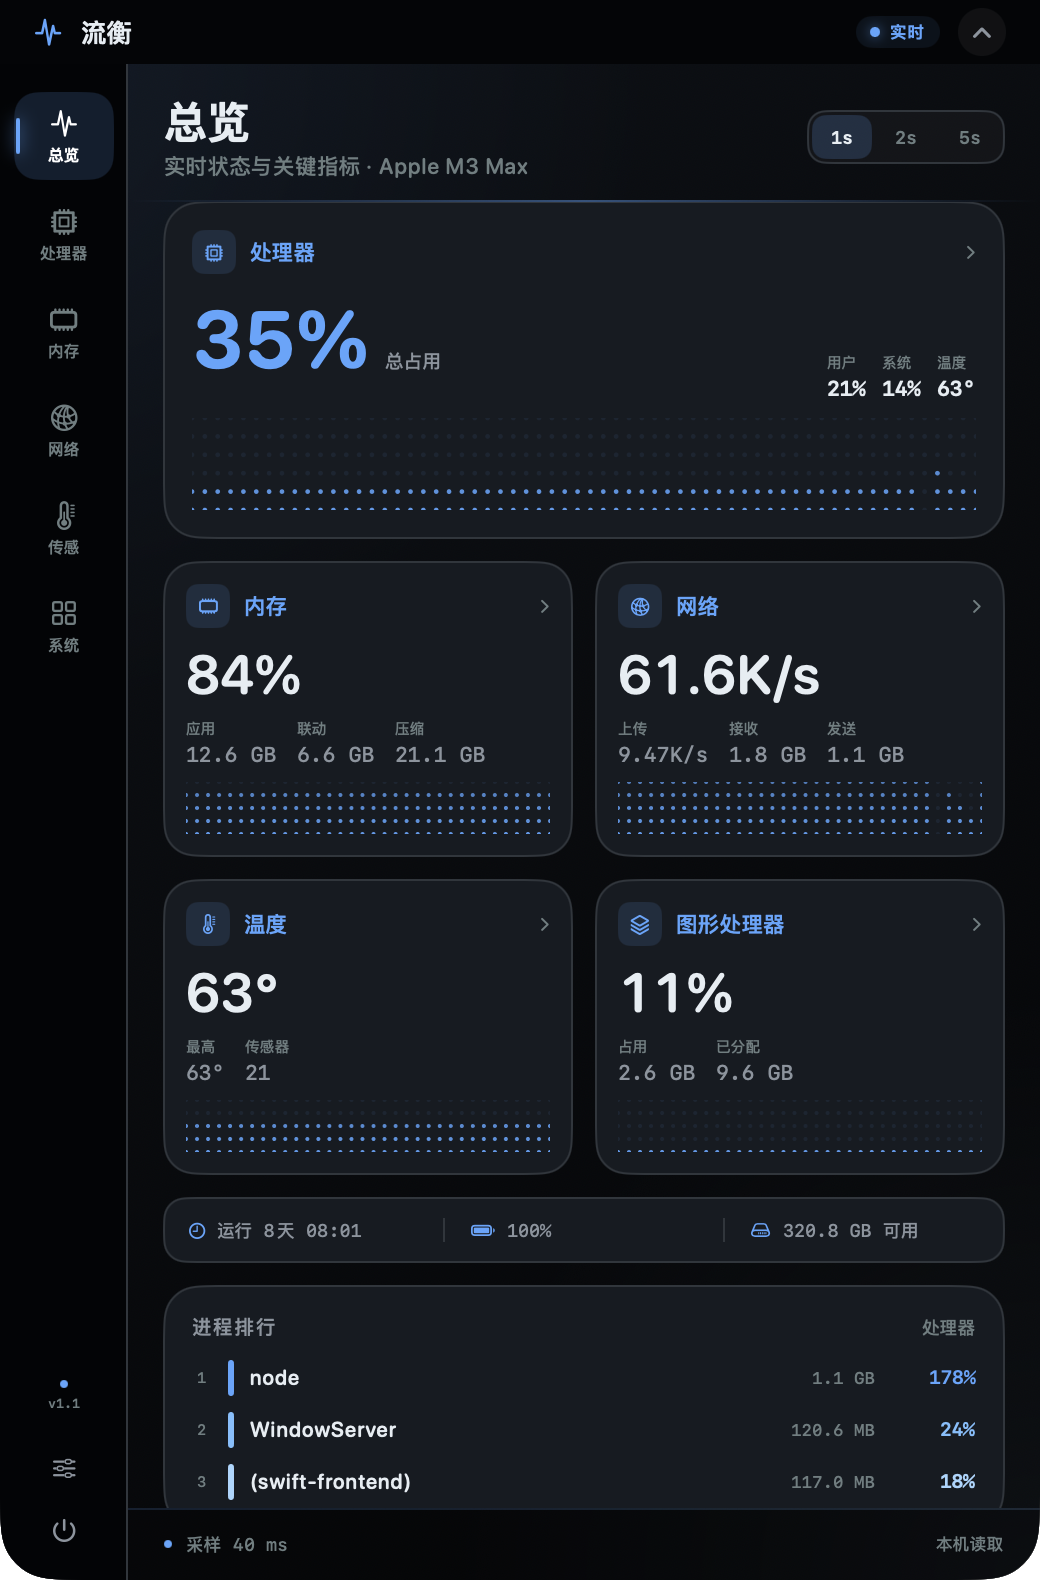
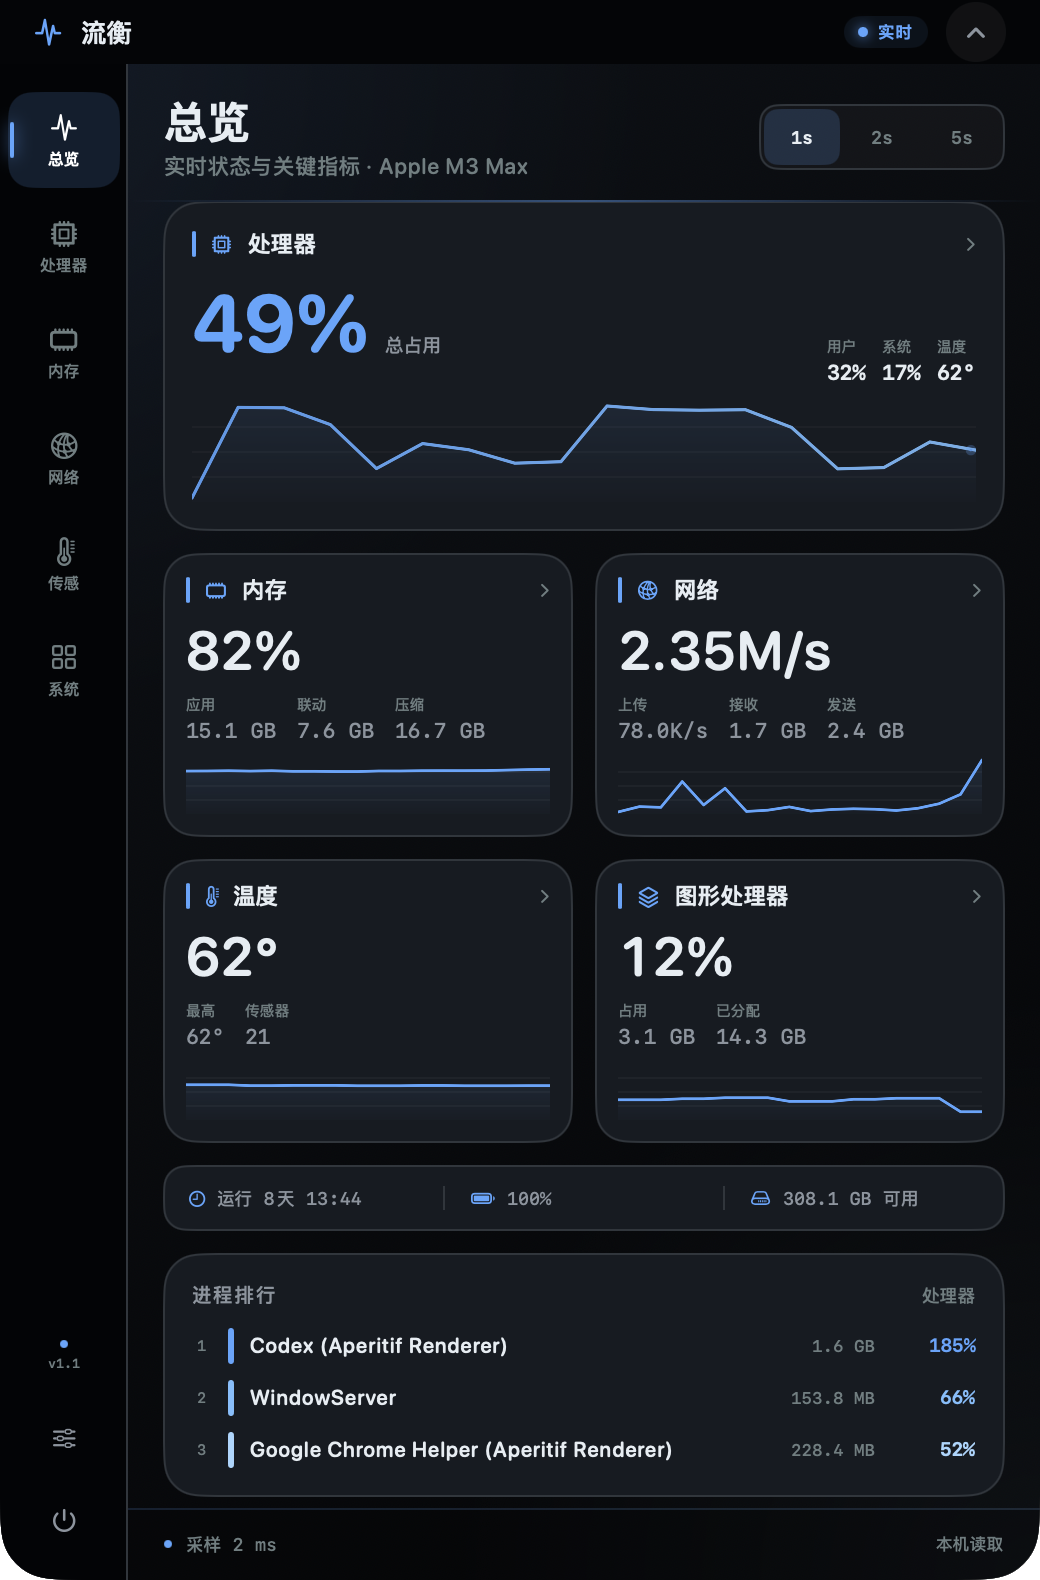
Refine visual identity and App Store assets

diff --git a/Sources/Pulse/DashboardView.swift b/Sources/Pulse/DashboardView.swift
@@ -401,14 +401,9 @@ private struct PulseCPUCard: View {
                 )
             }
 
-            DotMatrix(
-                values: model.cpuHistory,
-                maxValue: 100,
-                color: PulseTheme.azure,
-                columns: 62,
-                rows: 6
-            )
-            .frame(height: 46)
+            PulseWave(values: model.cpuHistory, accent: PulseTheme.azure)
+                .frame(height: 50)
+                .opacity(0.9)
         }
         .padding(14)
         .background(
@@ -480,14 +475,15 @@ private struct SignalCard: View {
                 }
             }
 
-            DotMatrix(
+            AreaChart(
                 values: history,
-                maxValue: maxHistory,
                 color: accent,
-                columns: 34,
-                rows: 5
+                maxValue: maxHistory,
+                showGrid: true,
+                lineWidth: 1.4,
+                fillOpacity: 0.12
             )
-            .frame(height: 26)
+            .frame(height: 28)
         }
         .padding(11)
         .background(
@@ -510,17 +506,15 @@ private struct CardHeading: View {
 
     var body: some View {
         HStack(spacing: 7) {
-            ZStack {
-                RoundedRectangle(cornerRadius: 6, style: .continuous)
-                    .fill(accent.opacity(0.13))
-                Image(systemName: icon)
-                    .font(.system(size: 9, weight: .semibold))
-                    .foregroundStyle(accent)
-            }
-            .frame(width: 22, height: 22)
-            Text(LocalizedStringKey(title))
-                .font(.system(size: 11, weight: .semibold, design: .rounded))
+            RoundedRectangle(cornerRadius: 1)
+                .fill(accent)
+                .frame(width: 2, height: 13)
+            Image(systemName: icon)
+                .font(.system(size: 9.5, weight: .semibold))
                 .foregroundStyle(accent)
+            Text(LocalizedStringKey(title))
+                .font(.system(size: 11.5, weight: .semibold, design: .rounded))
+                .foregroundStyle(PulseTheme.text)
             Spacer(minLength: 4)
             Image(systemName: "chevron.right")
                 .font(.system(size: 7.5, weight: .semibold))
@@ -713,6 +707,19 @@ private struct PulseWave: View {
                 }
                 let top = max(60, samples.max() ?? 60)
                 let step = size.width / CGFloat(max(1, samples.count - 1))
+
+                for fraction in [0.25, 0.5, 0.75] {
+                    var grid = Path()
+                    let y = size.height * fraction
+                    grid.move(to: CGPoint(x: 0, y: y))
+                    grid.addLine(to: CGPoint(x: size.width, y: y))
+                    context.stroke(
+                        grid,
+                        with: .color(Color.white.opacity(0.04)),
+                        lineWidth: 0.8
+                    )
+                }
+
                 var line = Path()
                 for (index, value) in samples.enumerated() {
                     let x = CGFloat(index) * step
@@ -731,7 +738,7 @@ private struct PulseWave: View {
                 context.fill(
                     area,
                     with: .linearGradient(
-                        Gradient(colors: [accent.opacity(0.20), accent.opacity(0.015)]),
+                        Gradient(colors: [accent.opacity(0.10), accent.opacity(0.01)]),
                         startPoint: .zero,
                         endPoint: CGPoint(x: 0, y: size.height)
                     )

diff --git a/Sources/Pulse/Theme.swift b/Sources/Pulse/Theme.swift
@@ -163,6 +163,7 @@ struct AreaChart: View {
     var maxValue: Double?
     var showGrid: Bool = true
     var lineWidth: CGFloat = 1.6
+    var fillOpacity: Double = 0.32
 
     var body: some View {
         Canvas { context, size in
@@ -200,56 +201,12 @@ struct AreaChart: View {
             context.fill(
                 area,
                 with: .linearGradient(
-                    Gradient(colors: [color.opacity(0.32), color.opacity(0.02)]),
+                    Gradient(colors: [color.opacity(fillOpacity), color.opacity(0.015)]),
                     startPoint: .zero,
                     endPoint: CGPoint(x: 0, y: size.height)
                 )
             )
             context.stroke(line, with: .color(color), style: StrokeStyle(lineWidth: lineWidth, lineCap: .round, lineJoin: .round))
-        }
-    }
-}
-
-struct DotMatrix: View {
-    var values: [Double]
-    var maxValue: Double
-    var color: Color
-    var columns: Int = 58
-    var rows: Int = 6
-
-    var body: some View {
-        Canvas { context, size in
-            guard size.width > 4, size.height > 4 else { return }
-            let source = Array(values.suffix(columns))
-            let fill = values.last ?? 0
-            let padded = Array(repeating: fill, count: max(0, columns - source.count)) + source
-            let top = max(maxValue, 0.0001)
-            let stepX = size.width / CGFloat(max(1, columns - 1))
-            let stepY = size.height / CGFloat(max(1, rows - 1))
-            let diameter = min(stepX, stepY) * 0.36
-
-            for column in 0..<columns {
-                let value = column < padded.count ? padded[column] : 0
-                let lit = Int(round(min(1, max(0, value / top)) * Double(rows)))
-                let x = CGFloat(column) * stepX
-                for row in 0..<rows {
-                    let y = size.height - CGFloat(row) * stepY
-                    let active = row < lit
-                    let opacity = active
-                        ? 0.92 - Double(row) * 0.055
-                        : 0.075
-                    let rect = CGRect(
-                        x: x - diameter / 2,
-                        y: y - diameter / 2,
-                        width: diameter,
-                        height: diameter
-                    )
-                    context.fill(
-                        Path(ellipseIn: rect),
-                        with: .color(color.opacity(max(0.03, opacity)))
-                    )
-                }
-            }
         }
     }
 }

diff --git a/docs/APPSTORE_METADATA.md b/docs/APPSTORE_METADATA.md
@@ -1,0 +1,68 @@
+# App Store Connect metadata draft
+
+## App information
+
+- Name: `Lumeth`
+- Subtitle: `System monitor in your notch`
+- Bundle ID: `com.sansi.lumeth`
+- SKU: `lumeth-macos`
+- Primary category: Utilities
+- Price: Free
+- Minimum macOS: 14.0
+- Copyright: `Lumeth`
+
+## Promotional text
+
+See CPU, memory, network and temperature around the notch. Click the island for
+a calm, native dashboard with processors, memory, network, sensors, disks, GPU,
+battery and processes.
+
+## Description
+
+Lumeth turns the MacBook notch into a quiet system monitor.
+
+The compact island stays at menu-bar height and shows CPU, memory, network and
+temperature without taking over the screen. Click it to open a native dashboard
+with:
+
+- Per-core CPU usage, load averages and top processes
+- Memory composition, pressure and swap
+- Live network throughput and totals
+- GPU utilization and memory
+- Temperature sensors
+- Disk activity and capacity
+- Battery level, cycles and health
+
+All readings stay on your Mac. Lumeth has no analytics, advertising, network
+requests, background daemon, or privileged helper.
+
+## Keywords
+
+`system monitor,cpu,memory,network,temperature,notch,menu bar,macos`
+
+## URLs
+
+- Support: https://github.com/sansi-lcj/lumeth-support/issues
+- Privacy: https://github.com/sansi-lcj/lumeth-support/blob/main/PRIVACY.md
+- Marketing: https://github.com/sansi-lcj/lumeth-support
+
+## Screenshots
+
+- `docs/screenshot-overview-2560x1600.png`
+- `docs/screenshot-cpu-2560x1600.png`
+
+Both are 2560×1600 and have no alpha channel.
+
+## App Review notes
+
+Lumeth is an accessory app (`LSUIElement`) with no Dock icon. It draws a
+compact panel around the MacBook notch and expands into a dashboard when
+clicked. It reads public, read-only system counters and IOHID temperature
+events; it does not request Accessibility, Input Monitoring, Full Disk Access,
+root, or network access. Fan control is intentionally not implemented.
+
+## Current account state
+
+The App Store Connect app record has not been created yet. Distribution
+certificates and a Mac App Store provisioning profile are still missing; see
+`docs/APPSTORE.md`.

diff --git a/docs/APPSTORE.md b/docs/APPSTORE.md
@@ -5,8 +5,10 @@ Last checked: 2026-11-10
 ## What already works
 
 - The app builds with Xcode and can be archived.
+- The archive is universal (`arm64` + `x86_64`).
 - The archive is signed with the sandbox entitlement
   `com.apple.security.app-sandbox`.
+- `PrivacyInfo.xcprivacy` is embedded for UserDefaults and system boot time.
 - A local sandbox smoke test still reported CPU, memory, network, disk, GPU,
   battery and 21 HID temperature sensors.
 - The Xcode archive succeeded with Apple Development signing.
